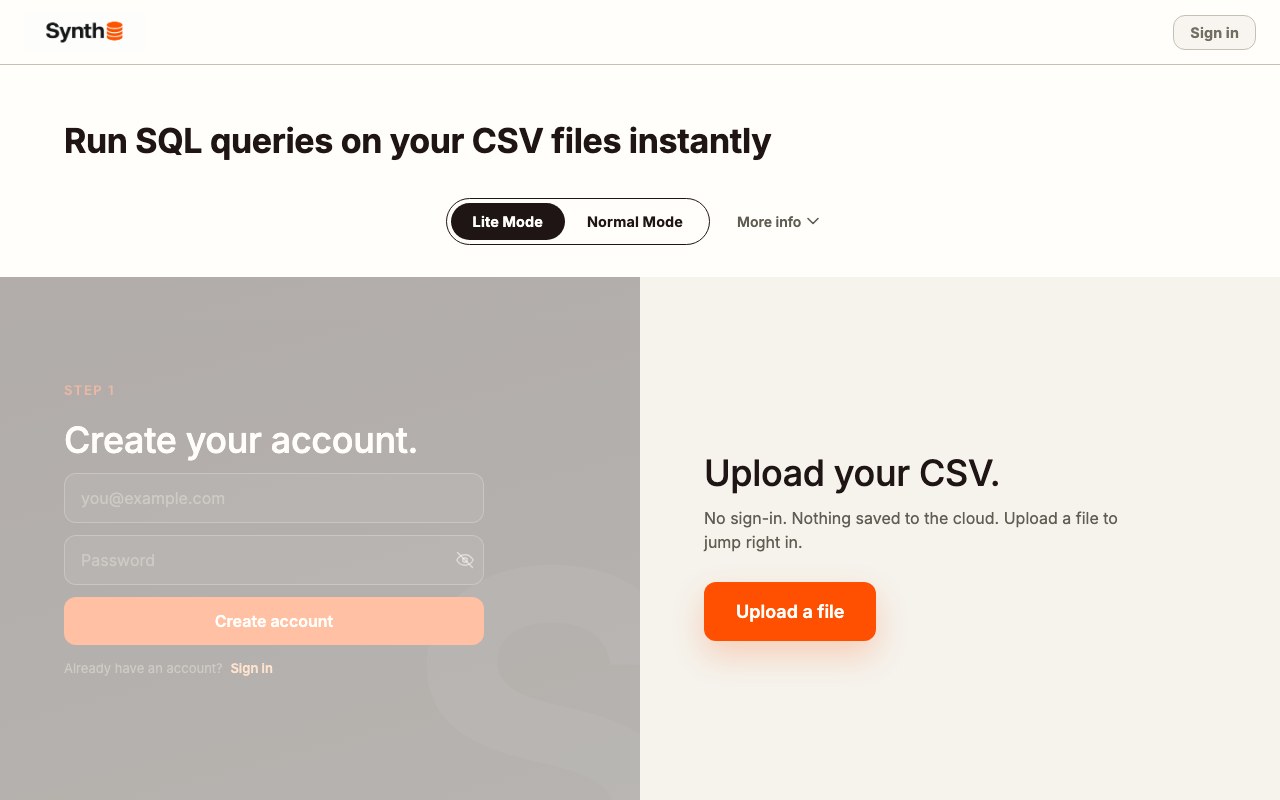
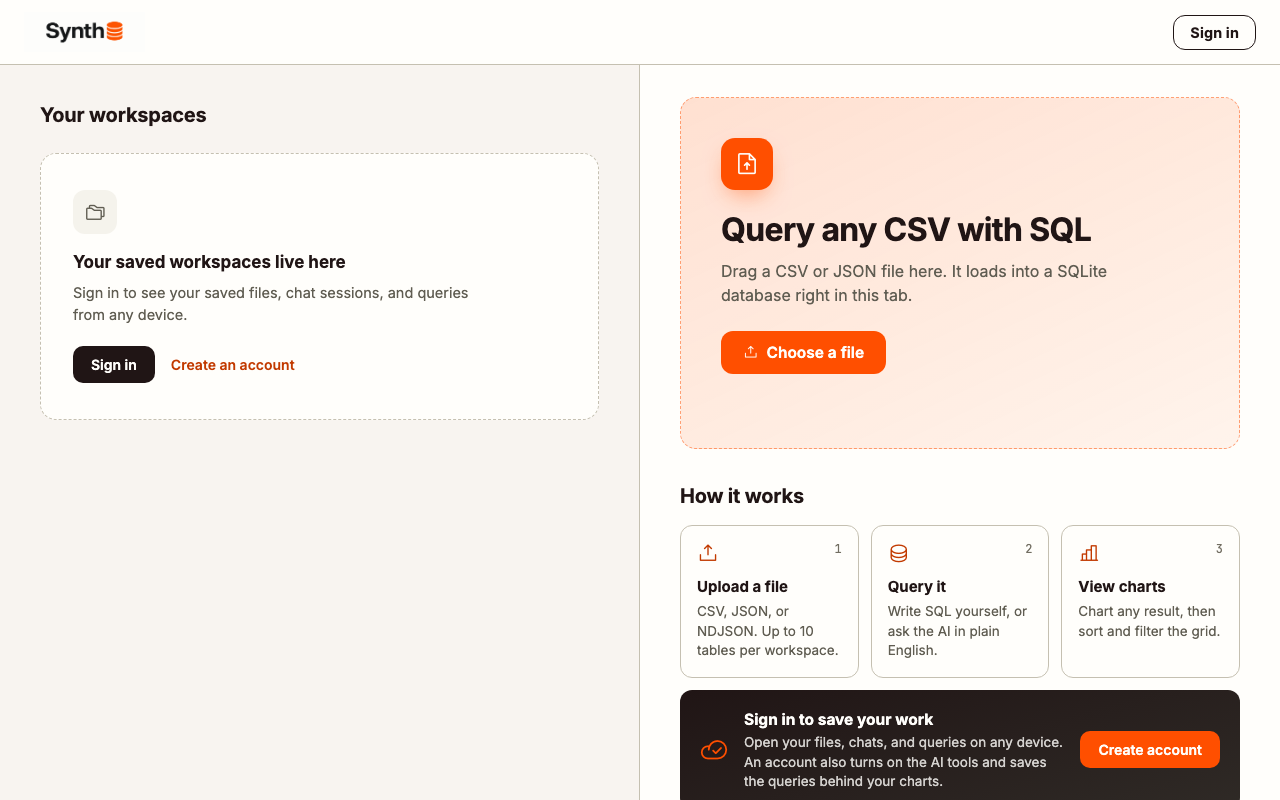
Update README for the new home page, account modal, and charts
Describes the dashboard-first home, the sign-in modal, /welcome and the
/about redirect, and the chart and Excel export features. Replaces the
home screenshot, lists the split-out scripts instead of calling
synth.html a single file, and corrects where the Supabase anon key lives
(auth.js).

diff --git a/README.md b/README.md
@@ -1,32 +1,64 @@
 # Synth
 
-Query any CSV or JSON file with real SQL, or in plain English, entirely in your browser. No database to install, no server to host. Upload a file and it becomes a live SQLite database running client-side in your browser tab.
+Query any CSV or JSON file with real SQL, or in plain English, entirely in your browser. There's no database to install and no server to host. When you upload a file, it becomes a SQLite database running client-side in your browser tab.
 
 **Live app:** [synth-sql.com](https://www.synth-sql.com/)
 
-![Synth: upload a CSV or sign in](screenshot-home.png)
+![Synth's home page: saved workspaces on the left, a file drop zone and a short walkthrough on the right](screenshot-home.png)
 
 ## Features
 
-- **Real SQL, not a formula language:** runs an actual SQLite database (compiled to WebAssembly via [sql.js](https://github.com/sql-js/sql.js)), so you get real `JOIN`s, `GROUP BY`, window functions, and subqueries against your file
-- **CSV and JSON:** a plain CSV, a JSON array of objects, or newline-delimited JSON (NDJSON); nested JSON objects flatten into dot-notation columns, arrays store as JSON text queryable with SQLite's own `json_extract()`
-- **AI assistant, two modes:** SQL Mode returns a runnable query, General Mode answers in plain English; only your table's schema (column names, types, row count) is ever sent to generate a response, never your actual data
-- **No account required to start:** Lite Mode loads and queries a file with zero sign-in, entirely in-memory; signing in (Normal Mode) adds cross-device sync for workspaces and chat sessions
-- **Multi-table workspaces:** up to 10 tables in one workspace, with relationship detection that auto-suggests foreign keys between tables and CSVs up to 500,000 rows
-- **Runs entirely client-side:** your file is never uploaded anywhere unless you explicitly sign in and choose to save it to the cloud
+- The home page opens straight onto the product. Drop a file anywhere on the page (or click to pick one) and you're querying it, with no sign-in. Signed-in users see their saved workspaces in the left column and can reopen any of them, or any saved chat, from there.
+- Queries run on a real SQLite database, compiled to WebAssembly by [sql.js](https://github.com/sql-js/sql.js), so `JOIN`s, `GROUP BY`, window functions, and subqueries all work against your file.
+- Synth reads plain CSV, a JSON array of objects, or newline-delimited JSON (NDJSON). Nested JSON objects flatten into dot-notation columns, and arrays are stored as JSON text you can query with SQLite's `json_extract()`.
+- The AI assistant has two modes. SQL Mode returns a query you can run; General Mode answers in plain English. It only sees your tables' schema (column names, types, and row counts), never the rows themselves.
+- Any query result can become a chart: column, bar, line, area, pie, doughnut, or scatter, with editable titles and axis labels and a full-screen view. For signed-in users, the AI picks the chart type and writes the titles, working from the same schema-only information as the chat assistant.
+- Export to Excel builds a two-sheet `.xlsx`: the results as an Excel Table, and a native Excel chart linked to those cells, so editing the data updates the chart. The workbook is generated by Python ([XlsxWriter](https://xlsxwriter.readthedocs.io/)) running in the browser through [Pyodide](https://pyodide.org/), so results never leave your machine.
+- You don't need an account to start. Lite Mode keeps everything in memory in your browser. Signing in adds the AI assistant, saved queries, and cloud sync for workspaces and chat sessions. Sign in, sign up, email confirmation, and password reset all happen in one modal, opened from the header's Sign in button.
+- A workspace can hold up to 10 tables, with table renaming, AI-written joins across tables, and suggested foreign-key relationships. Each CSV can have up to 500,000 rows.
+- Your file is only uploaded if you sign in and choose to save it to the cloud.
 
 ![Querying an uploaded CSV](screenshot-workspace.png)
 
+## Pages
+
+| Route | File | What it is |
+|---|---|---|
+| `/` | `synth.html` | The app: home view (upload and saved workspaces), then the query workspace |
+| `/welcome` | `welcome.html` | About page: Lite vs. Normal Mode comparison, how it works, and background on the project |
+| `/about` | none | Permanent redirect to `/welcome` |
+| `/guides` | `guides.html` | Index of the SQL how-to guides (`/query-csv-with-sql`, `/sql-cheat-sheet`, and others) |
+| `/terms`, `/privacy` | `terms.html`, `privacy.html` | Terms of Service and Privacy Policy |
+
+`/?auth=signin` or `/?auth=signup` opens the account modal on load. The `/welcome` page's Sign in link uses it.
+
+Routes and redirects are defined in `vercel.json`. The static pages share `marketing.css`.
+
 ## How it works
 
-- **Query engine:** [sql.js](https://github.com/sql-js/sql.js) (SQLite compiled to WebAssembly), running entirely in the browser with no server round-trip for query execution
-- **AI assistant:** served through a Vercel serverless function (`api/chat.js`) that proxies to Groq, so the API key is never exposed to the browser
-- **Auth & storage:** [Supabase](https://supabase.com/) (Postgres + Auth + Storage) for the optional signed-in tier, covering workspaces and saved chat sessions
-- **No build step:** the app itself (`synth.html`) is a single static HTML file with inline CSS/JS; no bundler, no framework
+The app is plain HTML, CSS, and JavaScript with no bundler or framework. `synth.html` holds the markup and styles and loads these scripts in order, sharing globals declared in `state.js`:
+
+| File | Handles |
+|---|---|
+| `state.js` | Shared global state (the database, loaded tables, current user) |
+| `csv-parser.js`, `json-parser.js` | Parsing uploaded files into rows |
+| `auth.js` | Supabase auth and the account modal |
+| `checkout.js` | Account tiers and feature access |
+| `grid.js` | The virtualized results grid |
+| `charts.js` | Charts, the full-screen chart view, SVG download, and Excel export |
+| `chat.js` | The AI assistant panel |
+| `app.js` | Home view, uploads, workspaces, and everything else |
+
+Other pieces:
+
+- Excel export runs `excel_chart.py` under Pyodide, which loads only the first time someone exports. The XlsxWriter wheel is vendored in `vendor/` so the export doesn't depend on PyPI at runtime.
+- The AI assistant goes through a Vercel serverless function (`api/chat.js`) that proxies to Groq, so the API key never reaches the browser.
+- [Supabase](https://supabase.com/) (Postgres, Auth, and Storage) backs the optional signed-in tier: accounts, saved workspaces, and chat sessions.
+- Pushing to `main` on GitHub deploys to Vercel automatically.
 
 ## Local development
 
-**Prerequisites:** Node.js, and the [Vercel CLI](https://vercel.com/docs/cli) (`npm i -g vercel`) since the API routes under `api/` are Vercel serverless functions.
+You'll need Node.js and the [Vercel CLI](https://vercel.com/docs/cli) (`npm i -g vercel`), since the routes under `api/` are Vercel serverless functions.
 
 ```bash
 git clone https://github.com/spelillo/synth.git
@@ -35,7 +67,7 @@ npm install
 vercel dev
 ```
 
-`vercel dev` serves `synth.html` and the `api/` functions together, matching production.
+`vercel dev` serves `synth.html` and the `api/` functions together, matching production. To work on the front end alone, any static server works (for example `python3 -m http.server 8123`, then open `/synth.html`), but the AI assistant, checkout, and the `vercel.json` routes won't be available.
 
 ### Environment variables
 
@@ -48,11 +80,11 @@ The API routes read these from your environment (create a `.env.local`, which is
 | `GROQ_API_KEY` | Powers the AI assistant (`api/chat.js`) |
 | `CRON_SECRET` | Authenticates scheduled Vercel Cron jobs |
 
-The client-side Supabase URL/anon key is hardcoded directly in `synth.html` rather than pulled from an env var, since there's no bundler here to inject it at build time. It's meant to be public. Point it at your own Supabase project for local development.
+The client-side Supabase URL and anon key are hardcoded at the top of `auth.js`, since there's no bundler to inject them at build time. The anon key is meant to be public. Point both at your own Supabase project for local development.
 
 ## Tech stack
 
-SQLite (via WebAssembly) &middot; Supabase &middot; Groq &middot; Vercel Serverless Functions &middot; vanilla JS/HTML/CSS (no framework, no bundler)
+SQLite (via WebAssembly) &middot; Pyodide + XlsxWriter &middot; Supabase &middot; Groq &middot; Vercel Serverless Functions &middot; vanilla JS/HTML/CSS (no framework, no bundler)
 
 ## License
 
